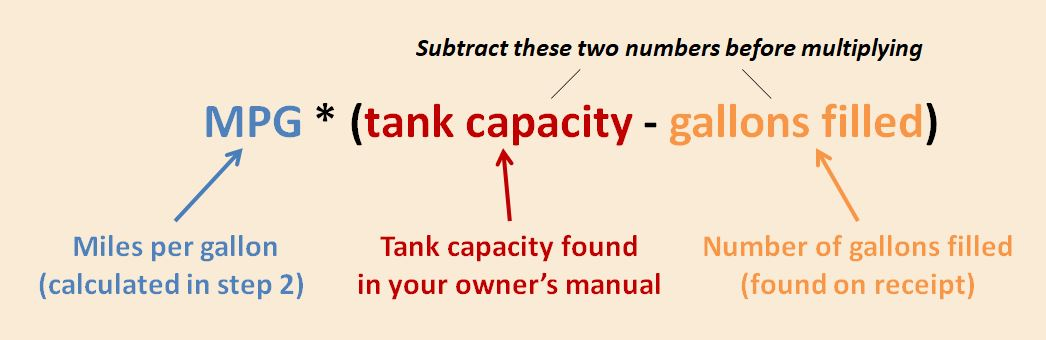
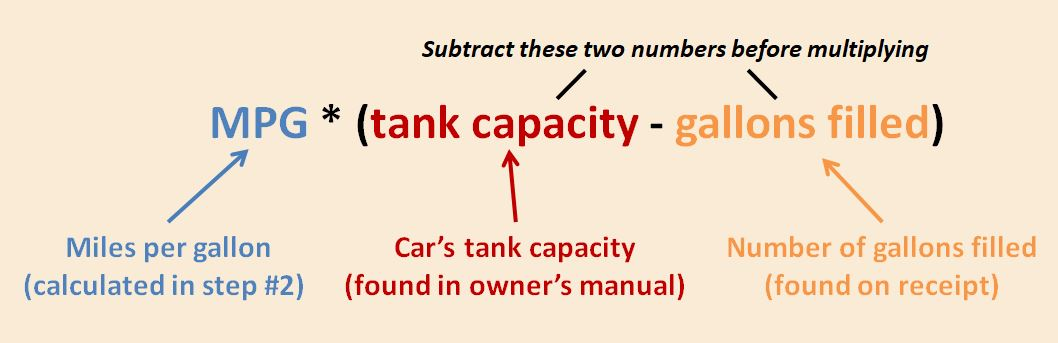
9/12 index updates
1. updated date
2. updated instruction wording
3. increased size of tank capacity image
4. updated step 3 EQ picture (darkened the two lines, added # to step 2,
added parentheses around "found in owner's manual")

diff --git a/index.html b/index.html
@@ -59,7 +59,7 @@ body {
 <div id="header">
 
 <center><a href="http://www.milesaftergaslight.com/"><img src="newlogo_v2.jpg" style="width:99%;max-height:250px;border:0" target="_blank" class="responsive"></a></center>
-<small><i>Last updated Wed Sept 11 2019 23:47 EST &nbsp&nbsp&nbsp </i></small>
+<small><i>Last updated Thurs Sept 12 2019 19:47 EST &nbsp&nbsp&nbsp </i></small>
 
 <style>
 @media screen and (max-width: 768px) {
@@ -257,7 +257,7 @@ div.a {
 <div class="a">
 <h2 style="font-family:arial black;font-size:20px;"><span style="color:black">Wondering how many miles your car can go after the gas light comes on?</style></h2>
 <h2 style="font-family:arial black;font-size:20px;"><span style="color:black">Follow these <ins><span style="color:green">three simple steps</span></ins> below to find out how far!</style></h2>
-<h2 style="font-family:arial black;font-size:20px;"><span style="color:black">Just enter your numbers after steps 2 & 3 and we'll calculate it for you!</style></h2>
+<h2 style="font-family:arial black;font-size:20px;"><span style="color:black">Crunch the numbers yourself, or just enter your info after steps 2 & 3 and we'll calculate it for you!</style></h2>
 </div>
 
 <br>
@@ -288,8 +288,8 @@ div.a {
 
 <div class="a">
 <font size="4"><b>When your <ins>gas light comes on</ins>, stop at the next gas station ASAP and <ins>completely fill up</ins> your tank again.
-<p>Divide the <ins># of miles driven</ins> since resetting the meter by the <ins># of gallons</ins> you just filled up (found on the receipt).</p>
-<p>This gives your miles per gallon (MPG) since you filled up your tank. Example below:</font></p>
+<p>Divide the <ins># of miles driven</ins> since resetting the trip meter by the <ins># of gallons</ins> you just filled up (found on the receipt).</p>
+<p>This will give you your car's miles per gallon (MPG) since you filled up your tank. Example below:</font></p>
 </div>
 
 <p><img src="633.jpg" width="15%" height="100"></p>
@@ -373,18 +373,18 @@ table#step1 {
 <img src="step3.jpg" style="width:20%;height:38px;"><br><br>
 
 <div class="a">
-<font size="4"><b>Lastly, locate your car's <ins>fuel tank capacity</ins> found in your owner's manual, usually kept in the glove box.<br>
+<font size="4"><b>Lastly, locate your car's <ins>fuel tank capacity</ins>. This can be found in your owner's manual, which is usually kept in the glove box.<br>
 <p>Multiply the <ins>MPG</ins> found in step #2 times the difference in your <ins>tank capacity</ins> and the <ins>number of gallons</ins> you just filled up:</b></font></p>
 </div>
 
-<p><img src="tank_capacity.jpg" style="width:35%;height:auto;max-height:250px;"></p>
+<p><img src="tank_capacity.jpg" style="width:55%;height:auto;max-height:250px;"></p>
 
 <img src="step_3_equation.jpg" width="50%" height="150">
 
 <img src="end_result.jpg" width="50%" height="150">
 
 <div class="a">
-<font size="4"><b>So in this example, there's about 66.8 miles remaining until the tank is empty after the gas light comes on.</b></font></p>
+<font size="4"><b>So in this example, once the gas light comes on there are about <ins>66.8 miles remaining</ins> until the tank is empty.</b></font></p>
 </div>
 
 <script>
